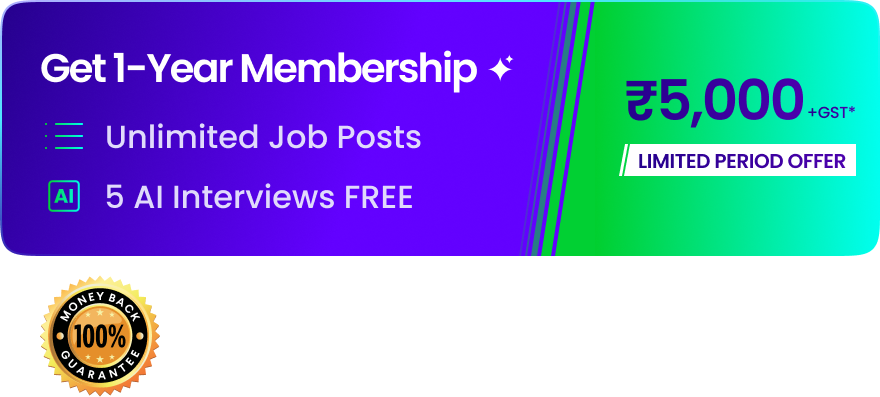
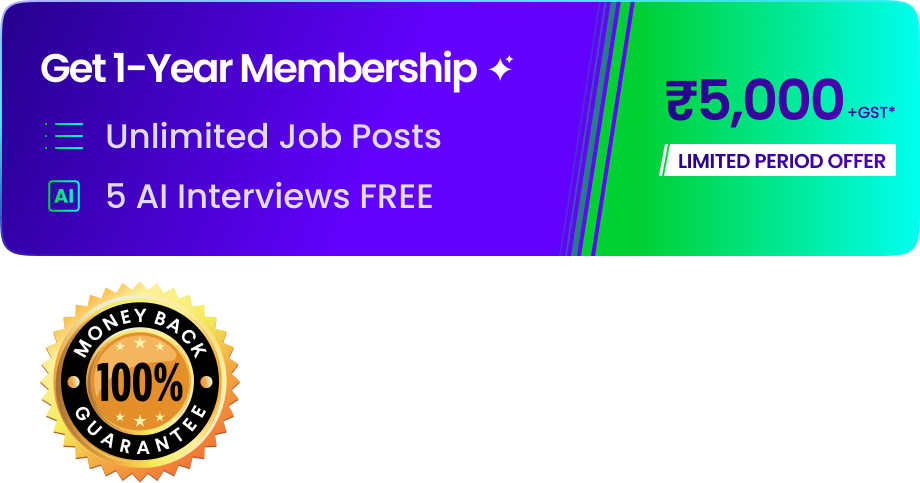
Modified business page according to EC

diff --git a/src/app/business-sub/page.tsx b/src/app/business-sub/page.tsx
@@ -122,12 +122,12 @@ const BusinessSubPage = () => {
   
 
   return (
-    <div className="min-h-screen w-full bg-black text-white flex flex-col lg:flex-row font-poppins">
+    <div className="min-h-screen w-full bg-white text-white flex flex-col lg:flex-row font-poppins">
       {/* Left: Offer & Info - Fixed */}
       <div className="lg:w-[30%] w-full flex flex-col justify-between items-start px-6 lg:px-12 py-8 lg:py-10 bg-gradient-to-r from-[#24008C] to-[#4C00AD] lg:fixed lg:h-screen relative overflow-hidden">
         {/* Decorative mask overlay */}
-        {/* <img src="/masklines.png" alt="decorative lines" className="pointer-events-none select-none absolute top-0 left-0 w-full h-full object-cover z-0" /> */}
-        <div className="w-full flex flex-col items-start gap-2 lg:gap-5 relative z-10">
+        <img src="/maskline.png" alt="decorative lines" className="pointer-events-none select-none absolute top-0 left-0 w-full h-full object-cover z-0" />
+        <div className="w-full flex flex-col items-start gap-8 sm:gap-6 relative z-10">
           {/* Heading */}
           <div className="pt-5 pb-7 w-full flex items-center justify-start">
             <img src="/reelslogo.png" alt="JobReels Logo" className="h-8 lg:h-12 w-auto" />
@@ -151,21 +151,24 @@ const BusinessSubPage = () => {
             }
           `}</style> */}
           {/* Annual Package */}
-          <div className="flex flex-col">
-            <span className="text-5xl lg:text-7xl font-semibold bg-gradient-to-br from-[#FFC01D] via-[#FFD955] to-[#FF9A01] bg-clip-text text-transparent leading-none">80%</span>
-            <span className="text-xl lg:text-2xl font-semibold bg-gradient-to-br from-[#FFC01D] via-[#FFD955] to-[#FF9A01] bg-clip-text text-transparent leading-none">Reduction</span>
+          <div className="flex flex-row items-end gap-4 justify-center items-center">
+            <div className="flex flex-col">
+              <span className="text-5xl lg:text-7xl font-semibold bg-gradient-to-br from-[#FFC01D] via-[#FFD955] to-[#FF9A01] bg-clip-text text-transparent leading-none">80%</span>
+              <span className="text-xl lg:text-2xl font-semibold bg-gradient-to-br from-[#FFC01D] via-[#FFD955] to-[#FF9A01] bg-clip-text text-transparent leading-none">Reduction</span>
+            </div>
+            <div className="flex flex-col items-end gap-1">
+              <span className="text-3xl sm:text-md font-bold text-white">Time-to-Hire</span>
+              <span className="text-3xl sm:text-md font-bold text-white">Cost-to-Hire</span>
+            </div>
           </div>
-          {/* Unlimited Job Posts */}
-          <div className="flex items-end gap-1">
-            <span className="text-lg lg:text-xl font-bold text-white">Time-to-Hire</span>
-            <span className="text-lg lg:text-xl font-regular text-white">&</span> 
-            <span className="text-lg lg:text-xl font-bold text-white">Cost-to-Hire</span>
-          </div>
-          <div className="flex items-end gap-1">
-            <span className="text-[12px] font-regular text-ds-purple/100">Instantly Hire : Skill Certified & Identity Verified Workforce. </span> 
+          <div>
+            <ul className="list-disc list-inside flex flex-col gap-2">
+              <li className="text-[13.5px] font-semibold text-ds-purple/100">Instantly Hire Skill Certified & Verified Workforce</li> 
+              <li className="text-[13.5px] font-semibold text-ds-purple/100">Discover & Access new genuine candidates daily</li>
+            </ul>
           </div>
           {/* Business Offer Image */}
-          <img src="/assets/Businessoffer.png" alt="Business Offer" className="w-full h-auto" />
+          <img src="/assets/businessoffer.png" alt="Business Offer" className="w-full h-auto" />
           {/* Pay Now Button */}
           <button onClick={() => window.location.href = "https://hire.saathi.in"} className={`mt-2 mb-2 w-full relative overflow-hidden text-black font-bold py-3 rounded text-lg lg:text-xl shadow-lg transition hover:scale-105`}>
             <span className="relative z-10">Sign up Now</span>
